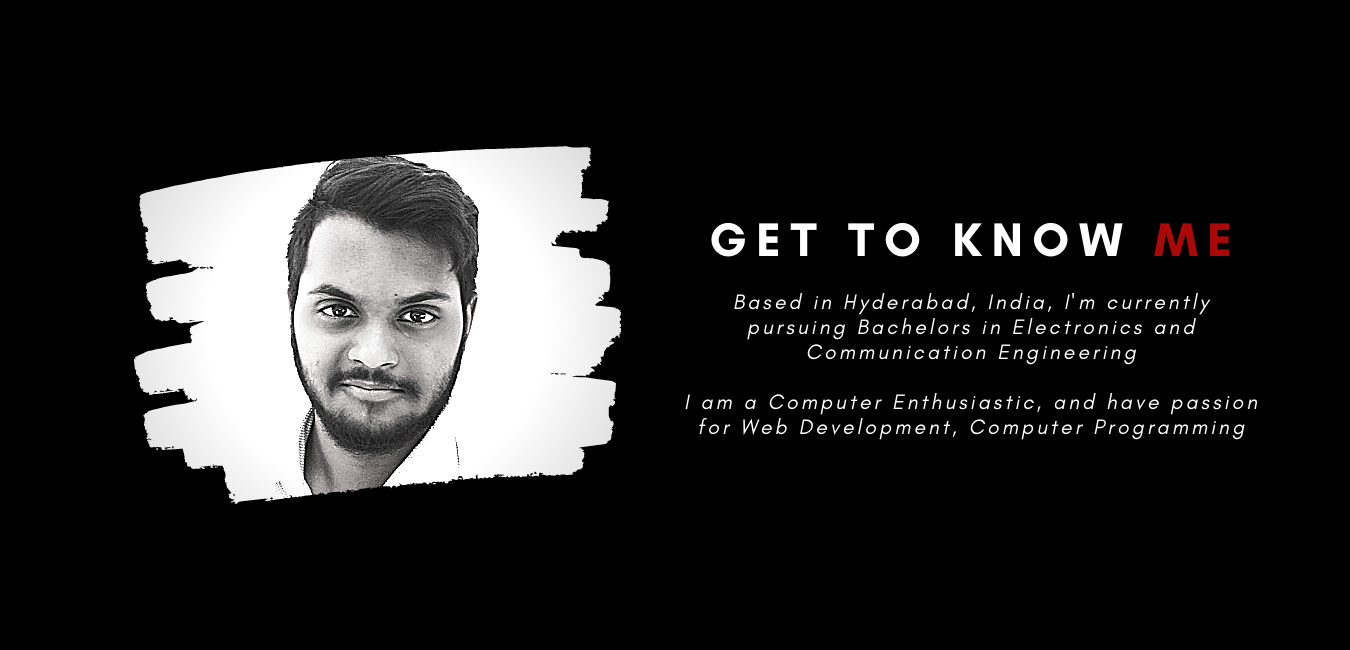
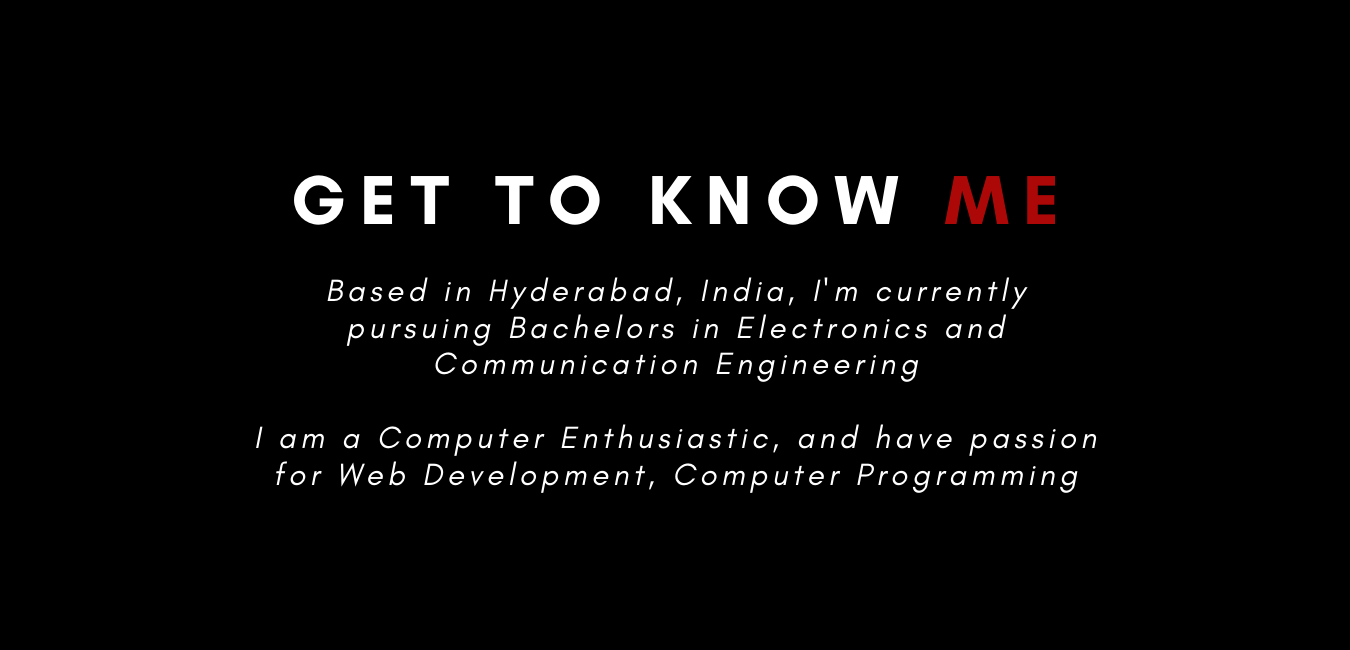
update 2.0

Changed region(s): [[0.0933, 0.2154, 0.9333, 0.7692]]

diff --git a/index.html b/index.html
@@ -1,86 +1,58 @@
 <!DOCTYPE html>
-<html lang="En">
+<html>
 <head>
-
-<!-- Analytics -->
-
-<!-- Global site tag (gtag.js) - Google Analytics -->
-<script async src="https://www.googletagmanager.com/gtag/js?id=UA-176077254-1"></script>
-<script>
-  window.dataLayer = window.dataLayer || [];
-  function gtag(){dataLayer.push(arguments);}
-  gtag('js', new Date());
-
-  gtag('config', 'UA-176077254-1');
-</script>
-<!-- End Google Analytics -->
-
-
-<!-- Adsense -->
-
-<script data-ad-client="ca-pub-6303336900804010" async src="https://pagead2.googlesyndication.com/pagead/js/adsbygoogle.js"></script>
-
-<meta charset="utf-8">
-	<title>Samineon</title>
-<link rel="stylesheet" type="text/css" href="css/style.css">
-<link rel="shortcut icon" href="icon.ico" />
-
-
-
+	<title>About Me - Samineon</title>
+<link rel="stylesheet" type="text/css" href="css/about_style.css">
+<link href="https://fonts.googleapis.com/css2?family=Josefin+Sans&display=swap" rel="stylesheet">
 </head>
 <body>
+
 <div id="mobile_menu">
 <div id="mySidenav" class="sidenav">
   <a href="javascript:void(0)" class="closebtn" onclick="closeNav()">&times;</a>
-  <a href="about.html">ABOUT ME</a>
   <a href="git.html">GET IN TOUCH</a>
 </div>
 
 <div id="main">
-
-  <span style="font-size:40px;cursor:pointer;padding-top: 15px;padding-left: 10px;" onclick="openNav()">&#9776;</span>
+  <span style="font-size:70px;cursor:pointer;color: #fff;padding-left: 10px;" onclick="openNav()">&#9776;</span>
 </div>
 </div>
 
 <header>
-	<h1><font class="h1one">Sami</font><font class="h1two">neon</font></h1>
-<!-- <div class="signin">
-	<button class="signinbtn"><a href="login.html">Sign In</a></button>
-</div>
- -->
+<h1><font class="h1one">Sami</font><font class="h1two">neon</font></h1>
+  <h2 class="hd">I'm <span class="mi_name">Mohammad Sameer</span>,</h2>
 <div class="dropdown">
   <button class="dropbtn">Explore &#x25BE;</button>
   <div class="dropdown-content">
-  <a href="about.html">ABOUT ME</a>
   <a href="git.html">GET IN TOUCH</a>
-</div>
-</header>
-<br>
-
-<div class="main">
-
-<div class="container">
-  <img src="images/ms.png" class="image">
-  <div class="overlay">
-    <div class="text"><img src="images/wtw.png"></div>
   </div>
 </div>
-
-<div id="wrapper">
-    <div id="container">
-
-        <h2>Hola Amigo, Explorar y Disfrutar !</h2>
-
-    </div>
-</div>
+</header>
+<section class="section1">
+  <h2 class="sec1"><span class="gettoknowme">GET TO KNOW <span style="color: #C0392B;">ME</span></span><br><br>
+    <p id="aboutme">Based in Hyderabad, India, I'm currently pursuing Bachelors in Electronics and Communication Engineering<br><br>I am a Computer Enthusiastic, and have passion for Web Development, Computer Programming</p>
+  </h2>
+</section>
 
 
-<!-- <div class='badge'>
-  <div class='text'>M.Sameer</div>
-</div>
- -->
+<section class="section2">
+  <h2 class="sec2"><span class="edu">EDUCATION</span><br><br>
+    <p><span class="edu1">Bachelors in Electronics and Communication</span><br><span class="edu2">Muffakham Jah College of Engineering and Technology | Class of 2022</span></p><br><br>
+    <p><span class="edu1">Intermediate Higher Education</span><br><span class="edu2">Sri Chaitanya Educational Institutions | Class of 2018</span></p><br><br>
+    <p><span class="edu1">High School</span><br><span class="edu2">Sultan Ul-Uloom Public School | Class of 2016</span></p>
+  </h2>
+</section>
 
-</div>
+
+<section class="section3">
+
+  <h2 class="sec3">
+    <span class="edu">SKILLS</span><br><br>
+    <span class="edu1">&#8226; Web Development<br>&#8226; IT Support Basis<br>&#8226; Computer Programming<br>&#8226; Photography</span><br><br>
+    <span class="edu">HOBBIES</span><br><br>
+    <span class="edu1">&#8226; Reading<br>&#8226; Gaming<br>&#8226; Football<br>&#8226; Photography</span>
+  </h2>
+</section>
 
 <script>
 function openNav() {
@@ -96,13 +68,14 @@ function closeNav() {
 }
 </script>
 
-<br>
-<!-- %@R*edOdFPDLe&SBGezl -->
 <footer>
-	<div>
-		<div class="ftdiv1"></div><div class="ftdiv2"></div>
-		<div class="cpyr">&copy; Samineon - 2020. All Rights Reserved.<br></div>
-	</div>
+  <a href="files/Resume_Sameer.pdf" download>
+    <button>Download Resume</button>
+  </a><br><br><br><br><br><br><br>
+  <div>
+    <div class="ftdiv1"></div><div class="ftdiv2"></div>
+    <div class="cpyr">Copyrights &copy; 2020 - Samineon. All Rights Reserved.<br></div>
+  </div>
 </footer>
 <div class="license">
   <a rel="license" href="http://creativecommons.org/licenses/by-nc-nd/4.0/"><img alt="Creative Commons License" style="border-width:0" src="https://i.creativecommons.org/l/by-nc-nd/4.0/80x15.png" /></a><span xmlns:dct="http://purl.org/dc/terms/" property="dct:title">Samineon</span> is licensed under a <a rel="license" href="http://creativecommons.org/licenses/by-nc-nd/4.0/">Creative Commons Attribution-NonCommercial-NoDerivatives 4.0 International License</a>.

diff --git a/old-index.html b/old-index.html
@@ -1,0 +1,92 @@
+<!DOCTYPE html>
+<html lang="En">
+<head>
+
+<meta charset="utf-8">
+	<title>Samineon</title>
+<link rel="stylesheet" type="text/css" href="css/style.css">
+<link rel="shortcut icon" href="icon.ico" />
+
+
+
+</head>
+<body>
+<div id="mobile_menu">
+<div id="mySidenav" class="sidenav">
+  <a href="javascript:void(0)" class="closebtn" onclick="closeNav()">&times;</a>
+  <a href="git.html">GET IN TOUCH</a>
+</div>
+
+<div id="main">
+
+  <span style="font-size:40px;cursor:pointer;padding-top: 15px;padding-left: 10px;" onclick="openNav()">&#9776;</span>
+</div>
+</div>
+
+<header>
+	<h1><font class="h1one">Sami</font><font class="h1two">neon</font></h1>
+<!-- <div class="signin">
+	<button class="signinbtn"><a href="login.html">Sign In</a></button>
+</div>
+ -->
+<div class="dropdown">
+  <button class="dropbtn">Explore &#x25BE;</button>
+  <div class="dropdown-content">
+  <a href="about.html">ABOUT ME</a>
+  <a href="git.html">GET IN TOUCH</a>
+</div>
+</header>
+<br>
+
+<div class="main">
+
+<div class="container">
+  <img src="images/ms.png" class="image">
+  <div class="overlay">
+    <div class="text"><img src="images/wtw.png"></div>
+  </div>
+</div>
+
+<div id="wrapper">
+    <div id="container">
+
+        <h2>Hola Amigo, Explorar y Disfrutar !</h2>
+
+    </div>
+</div>
+
+
+<!-- <div class='badge'>
+  <div class='text'>M.Sameer</div>
+</div>
+ -->
+
+</div>
+
+<script>
+function openNav() {
+  document.getElementById("mySidenav").style.width = "250px";
+  document.getElementById("main").style.marginLeft = "250px";
+  document.body.style.backgroundColor = "rgba(0,0,0,0.4)";
+}
+
+function closeNav() {
+  document.getElementById("mySidenav").style.width = "0";
+  document.getElementById("main").style.marginLeft= "0";
+  document.body.style.backgroundColor = "white";
+}
+</script>
+
+<br>
+<!-- %@R*edOdFPDLe&SBGezl -->
+<footer>
+	<div>
+		<div class="ftdiv1"></div><div class="ftdiv2"></div>
+		<div class="cpyr">&copy; Samineon - 2020. All Rights Reserved.<br></div>
+	</div>
+</footer>
+<div class="license">
+  <a rel="license" href="http://creativecommons.org/licenses/by-nc-nd/4.0/"><img alt="Creative Commons License" style="border-width:0" src="https://i.creativecommons.org/l/by-nc-nd/4.0/80x15.png" /></a><span xmlns:dct="http://purl.org/dc/terms/" property="dct:title">Samineon</span> is licensed under a <a rel="license" href="http://creativecommons.org/licenses/by-nc-nd/4.0/">Creative Commons Attribution-NonCommercial-NoDerivatives 4.0 International License</a>.
+</div>
+</body>
+</html>

diff --git a/git.html b/git.html
@@ -410,23 +410,23 @@ footer{
 }
 
 .fa-facebook {
-  background: #3B5998;
-  color: white;
+  background: white;
+  color: black;
 }
 
 .fa-twitter {
-  background: #55ACEE;
-  color: white;
+  background: white;
+  color: black;
 }
 
 .fa-linkedin {
-  background: #007bb5;
-  color: white;
+  background: white;
+  color: black;
 }
 
 .fa-instagram {
-  background: #e4405f;
-  color: white;
+  background: white;
+  color: black;
 }
 
 
@@ -469,8 +469,7 @@ footer{
 <div id="mobile_menu">
 <div id="mySidenav" class="sidenav">
   <a href="javascript:void(0)" class="closebtn" onclick="closeNav()">&times;</a>
-  <a href="index.html">HOME</a>
-  <a href="about.html">ABOUT ME</a>
+  <a href="about.html">HOME</a>
 </div>
 
 <div id="main">
@@ -487,8 +486,7 @@ footer{
 <div class="dropdown">
   <button class="dropbtn">Explore &#x25BE;</button>
   <div class="dropdown-content">
-  <a href="index.html">HOME</a>	
-  <a href="about.html">ABOUT ME</a>
+  <a href="about.html">HOME</a>
 </div>
 </header>
 <br><br><br>
@@ -557,7 +555,7 @@ function closeNav() {
 <footer>
 	<div>
 		<div class="ftdiv1"></div><div class="ftdiv2"></div>
-		<div class="cpyr">&copy; Samineon - 2020. All Rights Reserved.<br></div>
+		<div class="cpyr">Copyrights &copy; 2020 - Samineon. All Rights Reserved.<br></div>
 	</div>
 </footer>
 <div class="license">

diff --git a/css/about_style.css b/css/about_style.css
@@ -315,28 +315,30 @@ footer a button{
   span.gettoknowme{
     font-family: 'Squada One', cursive;
     font-weight: lighter;
+    font-size: 110px;
   }
 
   #aboutme{
     font-family: 'Overpass Mono', monospace;
     color: #fff;
-    font-size: 30px;
+    font-size: 45px;
     font-weight: lighter;
   }
 
   span.edu{
     font-family: 'Sansita', sans-serif;
     color: #C0392B;
+    font-size: 100px;
   }
 
   span.edu1{
     font-family: 'Red Hat Text', sans-serif;
-    font-size: 35px;
+    font-size: 45px;
   }
 
   span.edu2{
     font-family: 'Red Hat Text', sans-serif;
-    font-size: 27px;
+    font-size: 35px;
     color: #B3B6B7;
   }
 
